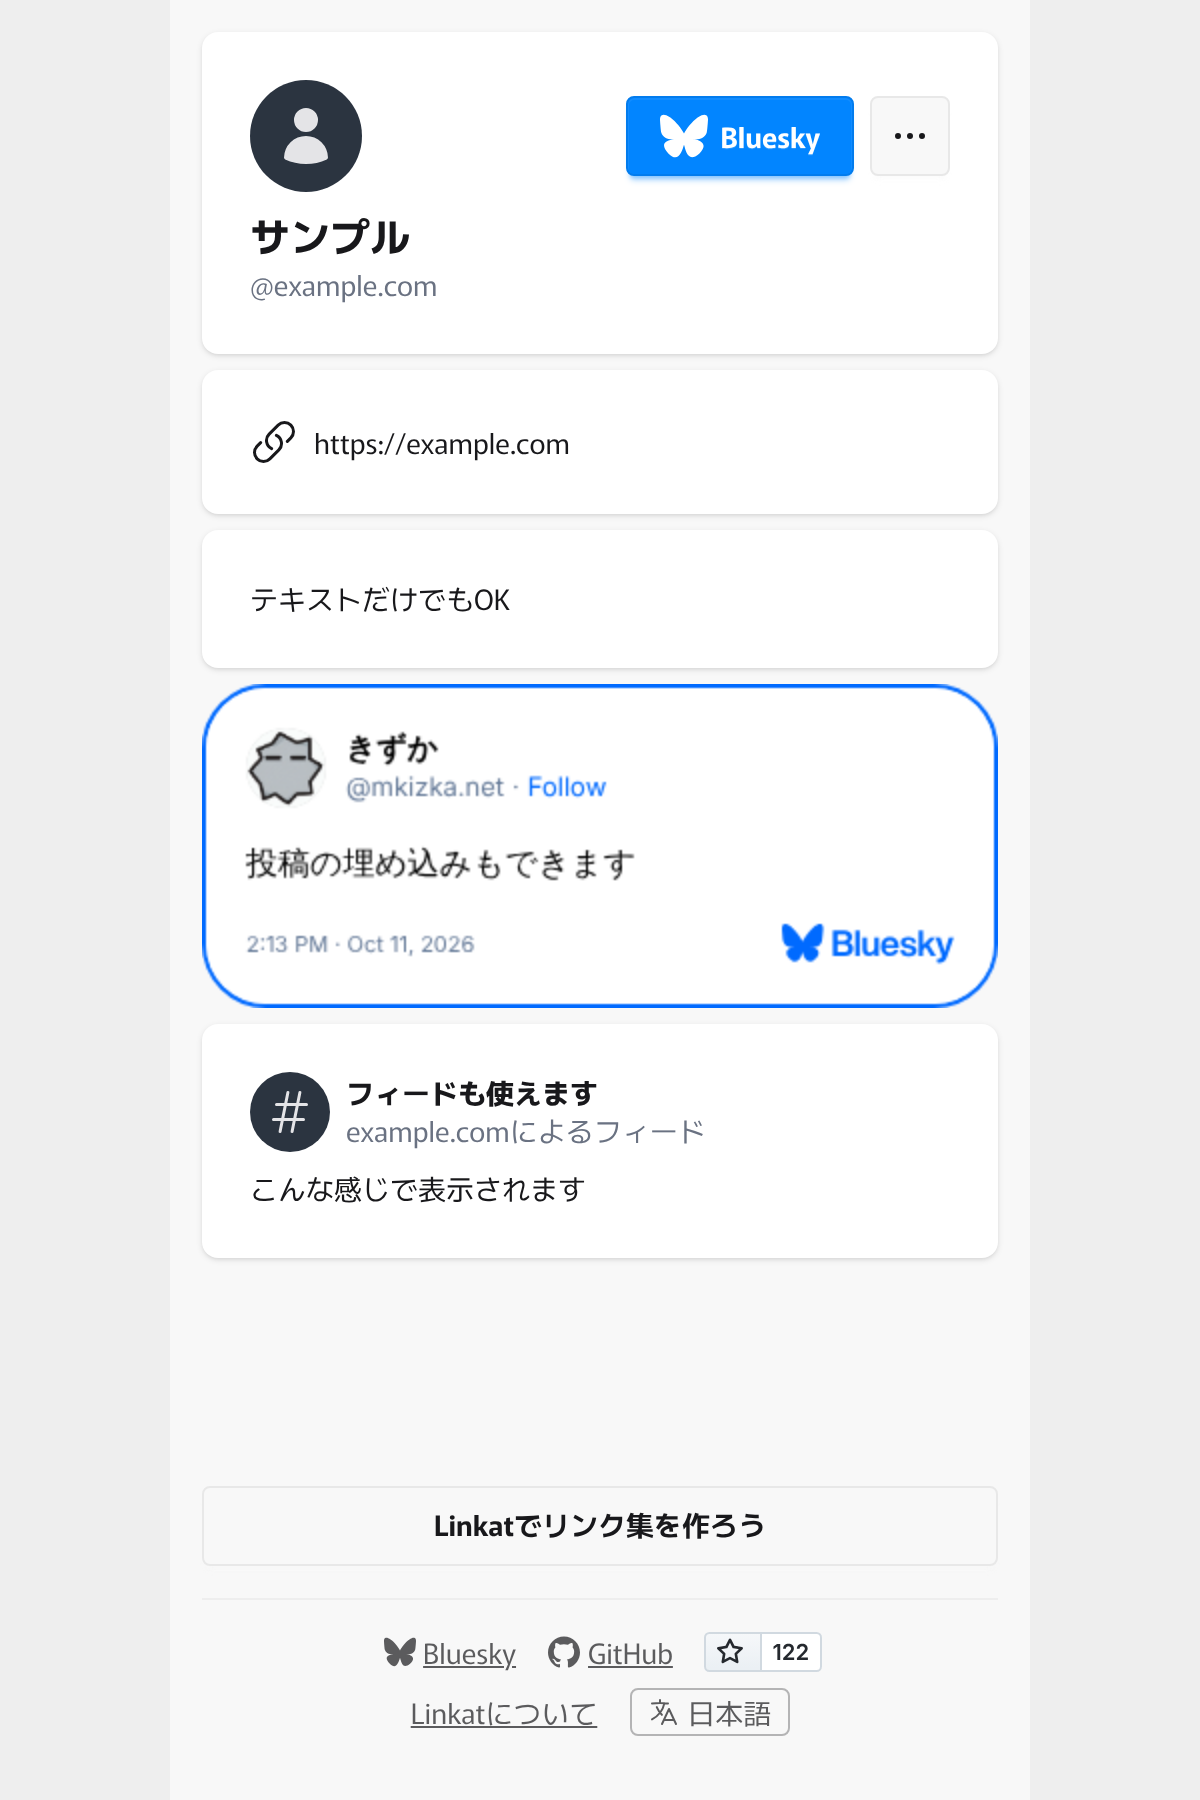
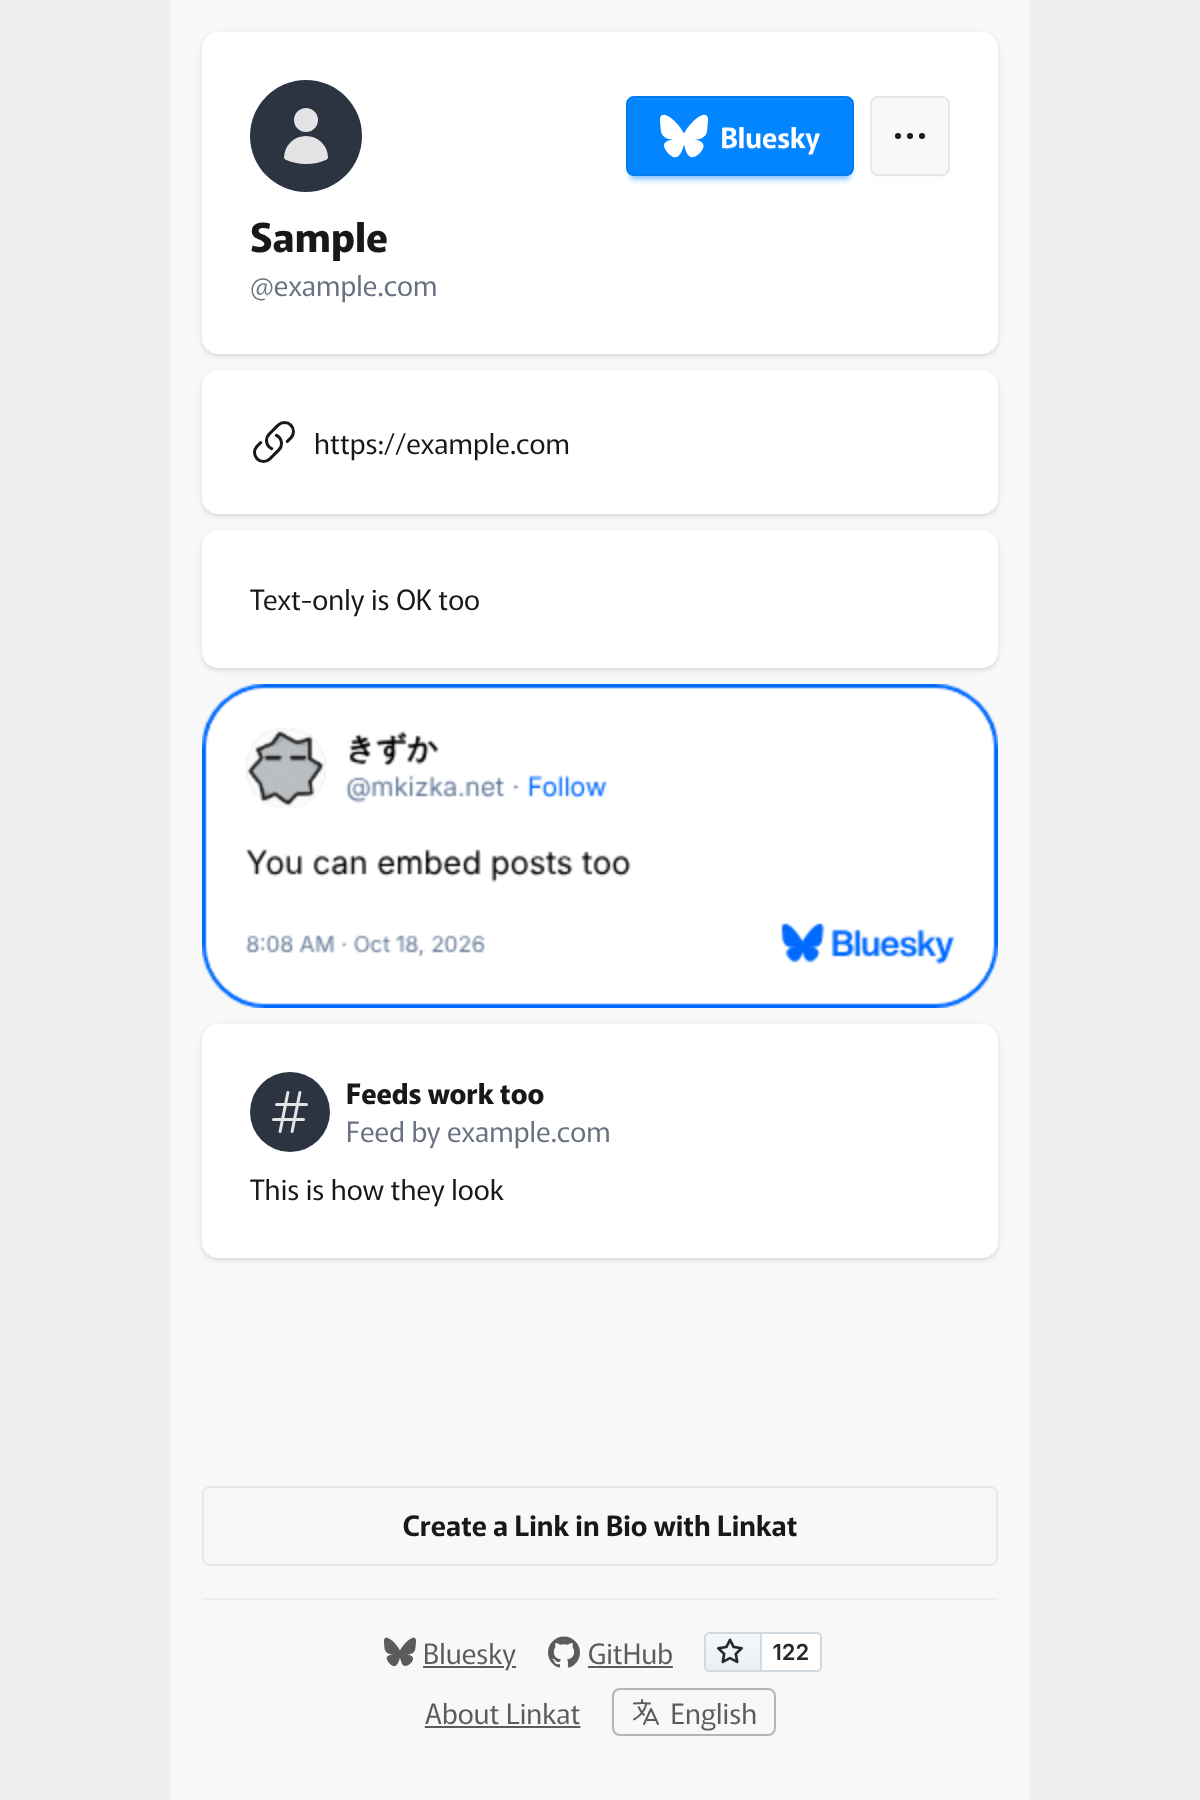
Show an English sample post and use an English README screenshot
Claude-Session: https://claude.ai/code/session_01KGK24LJ7Unp3CKVnfiEFhN

diff --git a/app/features/sample/use-sample-board.ts b/app/features/sample/use-sample-board.ts
@@ -14,9 +14,7 @@ export function useSampleBoard(displayName: string) {
   const cards = [
     { url: "https://example.com" },
     { text: t("sample.text") },
-    {
-      url: "https://bsky.app/profile/did:plc:4gow62pk3vqpuwiwaslcwisa/post/3mxm6rvnfns25",
-    },
+    { url: t("sample.post-url") },
     { url: "https://bsky.app/profile/example.com/feed/sample" },
   ];
   const fetchFeed = () =>
